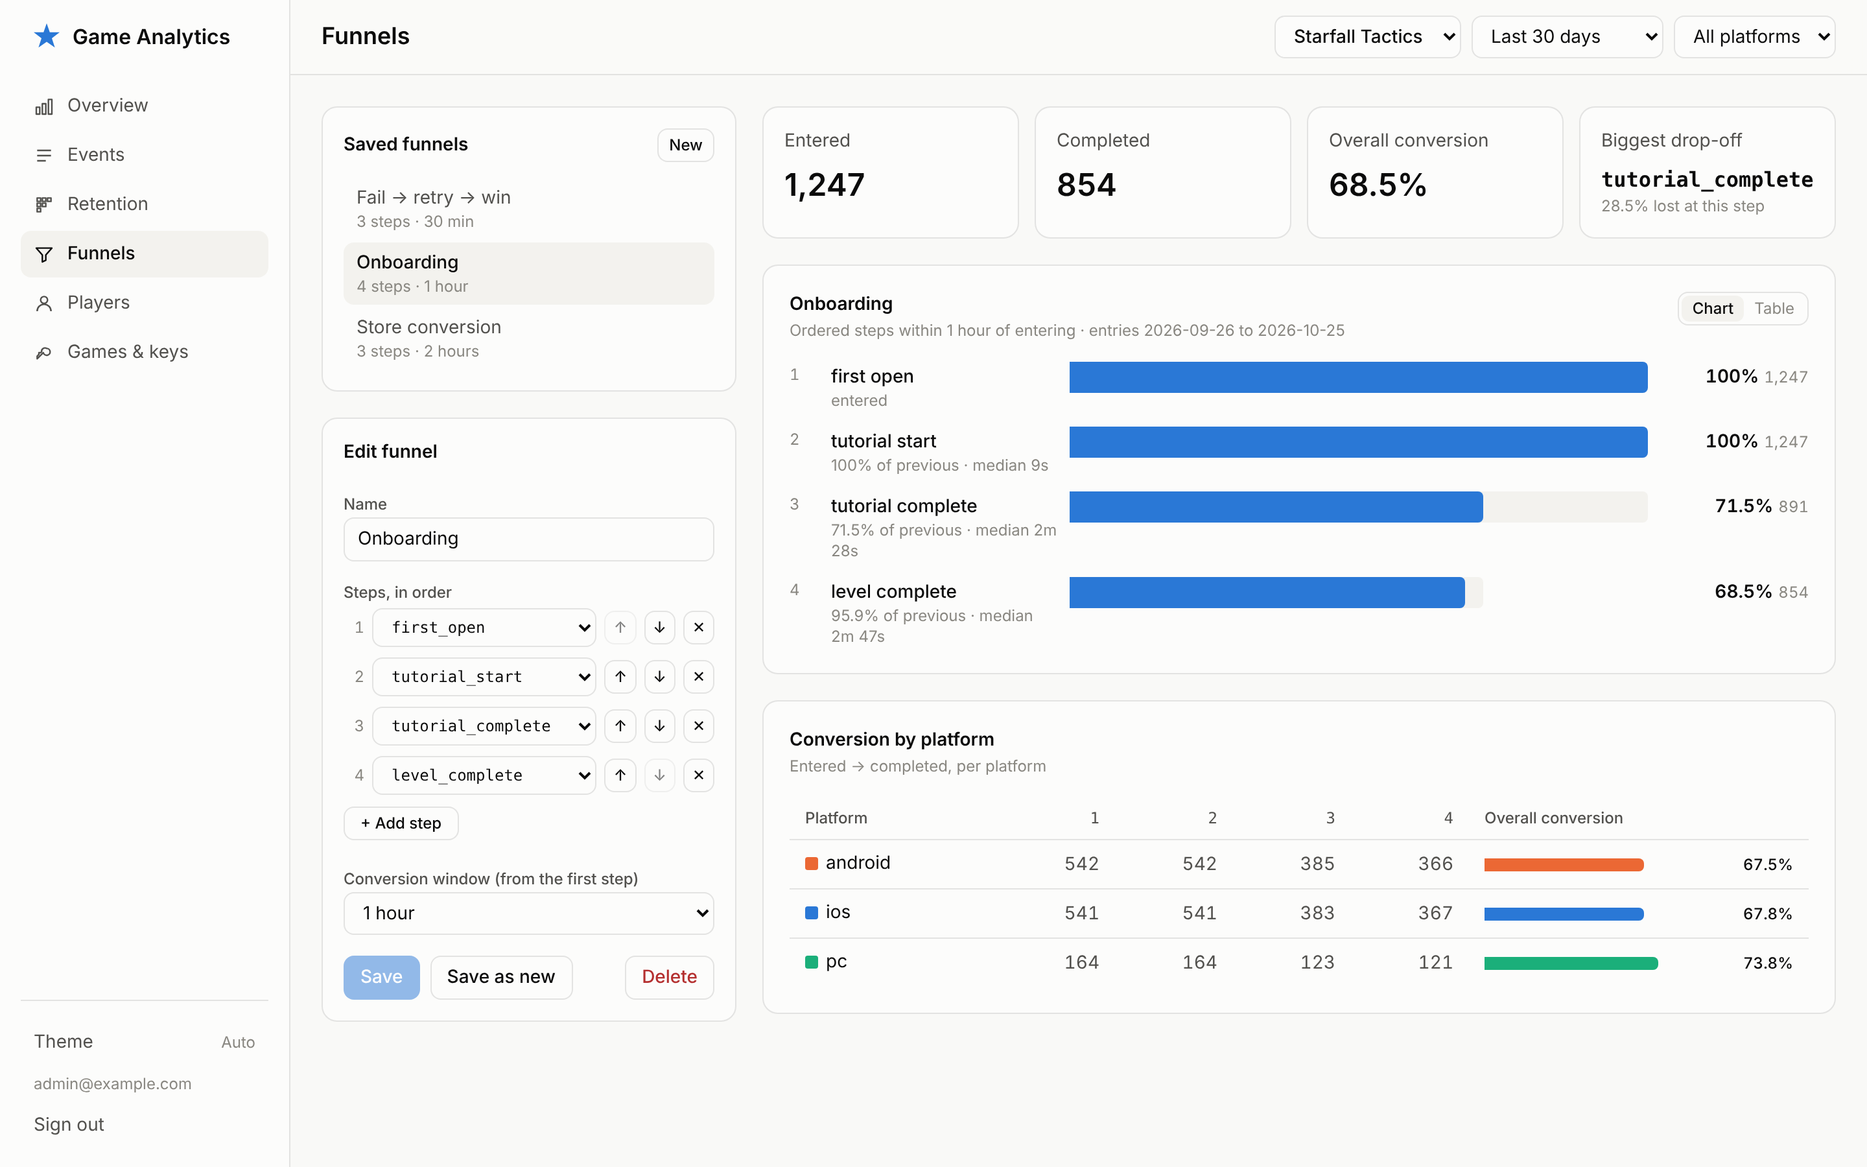
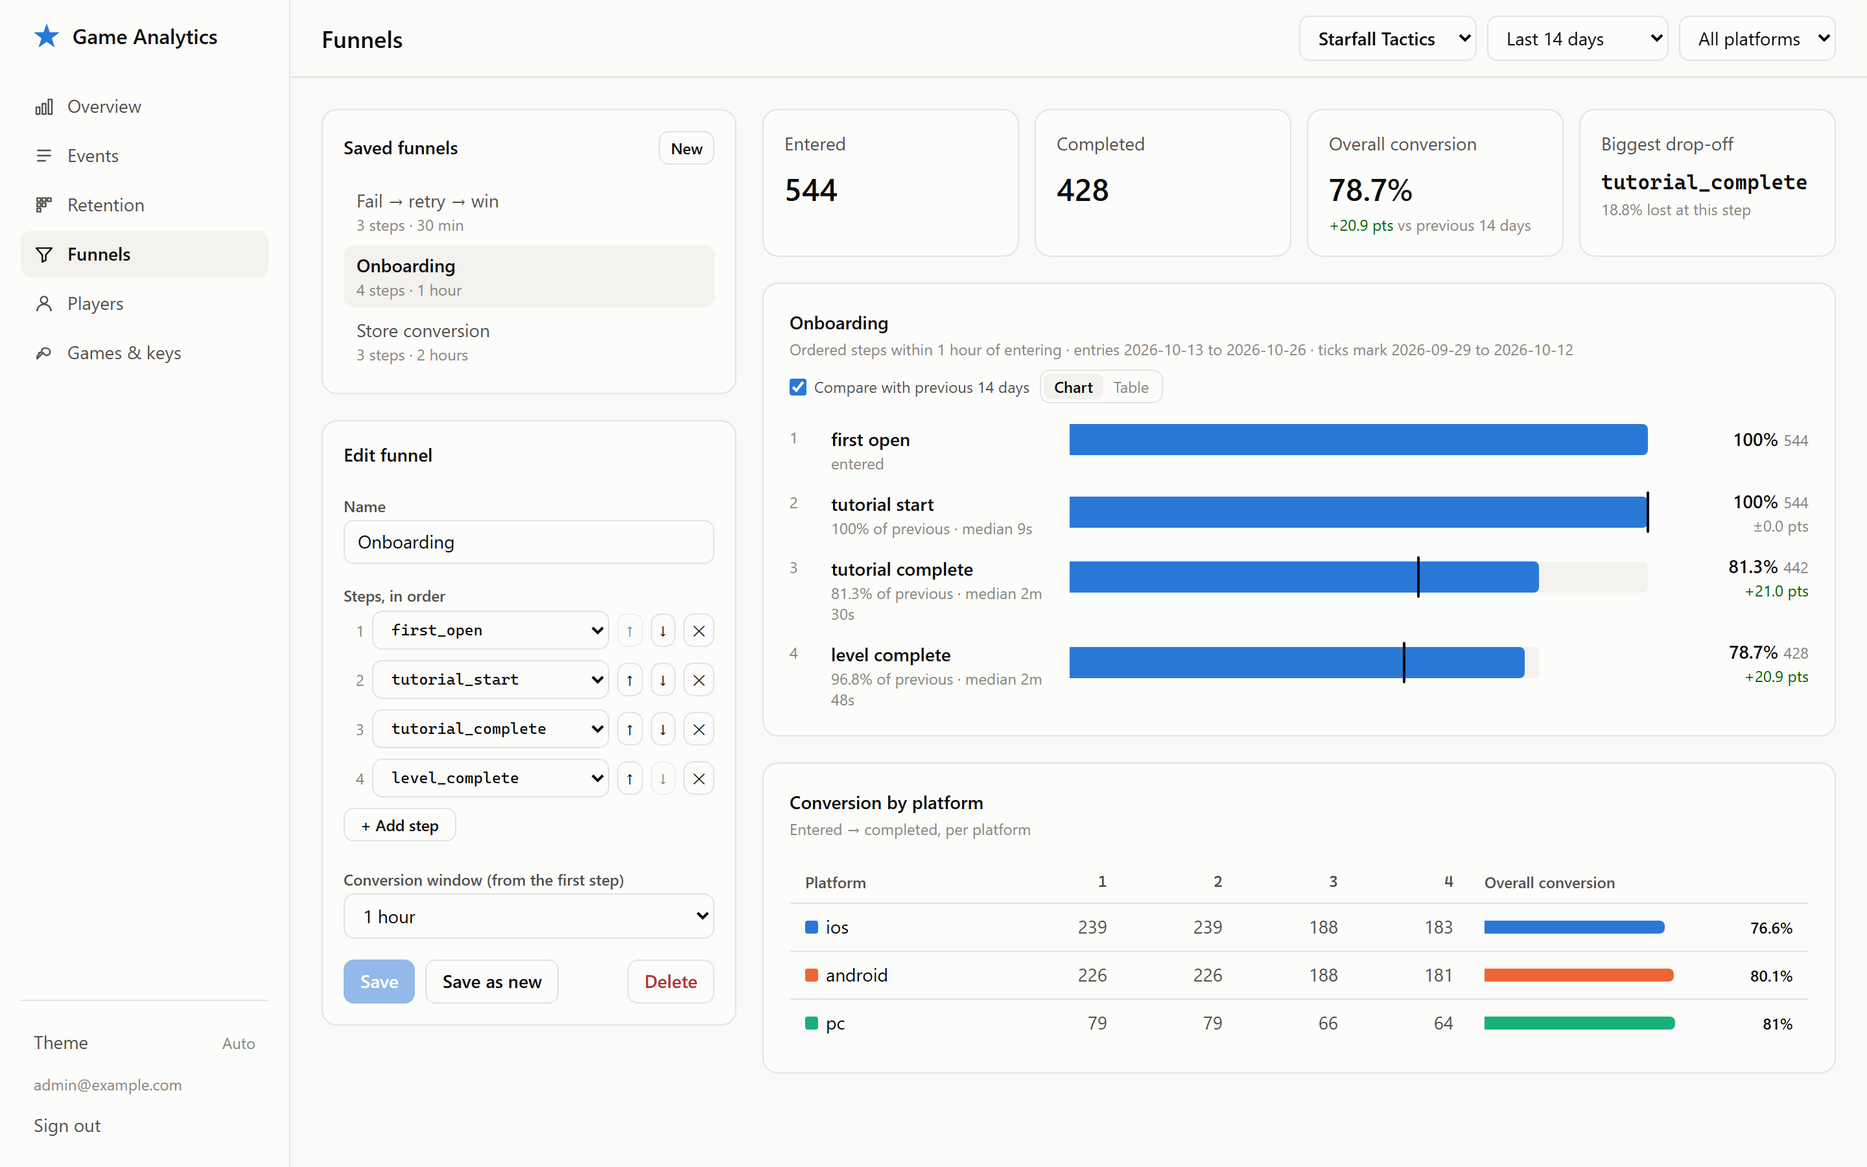
Compare a funnel with the previous period
With compare=1, the funnel report and preview endpoints add the same
funnel over the equally long period just before the range. The Funnels
page gets a "Compare with previous N days" toggle: each step shows a tick
where it stood before and its change in percentage points, the overall
conversion tile shows the change, and the table view adds the before and
change columns.

On the seeded data, the Onboarding funnel over the last 14 days shows the
1.4.0 tutorial fix: tutorial completion 60.2% -> 81.3% (+21.0 pts). The
README's funnel screenshot now shows this view.

Closes #7.

diff --git a/resources/js/pages/FunnelsPage.vue b/resources/js/pages/FunnelsPage.vue
@@ -4,7 +4,7 @@ import ChartCard from '../components/ChartCard.vue';
 import FunnelChart from '../components/charts/FunnelChart.vue';
 import { platformColor } from '../components/charts/scale';
 import { api } from '../lib/api';
-import { duration, eventLabel, minutesLabel, number, percent } from '../lib/format';
+import { duration, eventLabel, minutesLabel, number, percent, signedPoints } from '../lib/format';
 import { DEMO, game, range, state } from '../lib/store';
 import { useReport } from '../lib/useReport';
 
@@ -16,6 +16,8 @@ const catalog = ref([]);
 const draft = reactive({ id: null, name: '', steps: [], window_minutes: 60 });
 const saving = ref(false);
 const formError = ref('');
+/** Also run the funnel over the equally long period before the range. */
+const compare = ref(false);
 
 const saved = computed(() => funnels.value.find((f) => f.id === draft.id) ?? null);
 const dirty = computed(
@@ -45,7 +47,7 @@ api.get(`/games/${game.value.id}/events/catalog`).then((r) => (catalog.value = r
 const { data, loading, error } = useReport(
     () => {
         if (!definitionValid.value) return null;
-        const filters = { ...range.value, platform: state.platform };
+        const filters = { ...range.value, platform: state.platform, compare: compare.value ? 1 : null };
         return !dirty.value
             ? { url: `/games/${game.value.id}/funnels/${draft.id}/report`, params: filters }
             : { url: `/games/${game.value.id}/funnels/preview`, params: { ...filters, steps: draft.steps, window_minutes: draft.window_minutes } };
@@ -84,8 +86,14 @@ const summary = computed(() => {
     const steps = data.value?.steps ?? [];
     if (!steps.length) return null;
     const worst = steps.slice(1).reduce((w, s) => (w === null || (s.step_conversion ?? 1) < (w.step_conversion ?? 1) ? s : w), null);
-    return { entered: steps[0].players, completed: steps[steps.length - 1].players, conversion: steps[steps.length - 1].conversion, worst };
+    const before = data.value.comparison?.steps.at(-1)?.conversion;
+    const conversion = steps[steps.length - 1].conversion;
+    const change = before === undefined || before === null || conversion === null ? null : conversion - before;
+    return { entered: steps[0].players, completed: steps[steps.length - 1].players, conversion, change, worst };
 });
+
+/** The comparison rows, only once the response that carries them has arrived. */
+const previous = computed(() => (compare.value ? (data.value?.comparison?.steps ?? null) : null));
 
 watch(() => draft.steps.length, (n) => n > MAX_STEPS && draft.steps.splice(MAX_STEPS));
 </script>
@@ -160,7 +168,13 @@ watch(() => draft.steps.length, (n) => n > MAX_STEPS && draft.steps.splice(MAX_S
             <div v-if="summary" class="grid grid-cols-2 gap-3 transition-opacity xl:grid-cols-4" :class="loading ? 'opacity-50' : ''">
                 <div class="card p-4"><div class="text-sm text-ink-2">Entered</div><div class="mt-2 text-2xl font-semibold text-ink">{{ number(summary.entered) }}</div></div>
                 <div class="card p-4"><div class="text-sm text-ink-2">Completed</div><div class="mt-2 text-2xl font-semibold text-ink">{{ number(summary.completed) }}</div></div>
-                <div class="card p-4"><div class="text-sm text-ink-2">Overall conversion</div><div class="mt-2 text-2xl font-semibold text-ink">{{ percent(summary.conversion) }}</div></div>
+                <div class="card p-4">
+                    <div class="text-sm text-ink-2">Overall conversion</div>
+                    <div class="mt-2 text-2xl font-semibold text-ink">{{ percent(summary.conversion) }}</div>
+                    <div v-if="previous && summary.change !== null" class="mt-1 text-xs" :class="Math.abs(summary.change) < 0.0005 ? 'text-muted' : summary.change > 0 ? 'text-good' : 'text-bad'">
+                        {{ signedPoints(summary.change) }} <span class="text-muted">vs previous {{ data.range.days }} days</span>
+                    </div>
+                </div>
                 <div class="card p-4">
                     <div class="text-sm text-ink-2">Biggest drop-off</div>
                     <div class="mt-2 truncate font-mono text-base font-semibold text-ink">{{ summary.worst?.name ?? '–' }}</div>
@@ -171,14 +185,23 @@ watch(() => draft.steps.length, (n) => n > MAX_STEPS && draft.steps.splice(MAX_S
             <ChartCard
                 v-if="data"
                 :title="draft.name || 'Untitled funnel'"
-                :subtitle="`Ordered steps within ${minutesLabel(data.window_minutes)} of entering · entries ${data.range.from} to ${data.range.to}${state.platform ? ` · ${state.platform}` : ''}`"
+                :subtitle="`Ordered steps within ${minutesLabel(data.window_minutes)} of entering · entries ${data.range.from} to ${data.range.to}${state.platform ? ` · ${state.platform}` : ''}${previous ? ` · ticks mark ${data.comparison.range.from} to ${data.comparison.range.to}` : ''}`"
                 :loading="loading"
             >
-                <FunnelChart :steps="data.steps" />
+                <template #actions>
+                    <label class="flex cursor-pointer items-center gap-1.5 text-xs text-ink-2">
+                        <input v-model="compare" type="checkbox" class="accent-[var(--series-1)]" />
+                        Compare with previous {{ data.range.days }} days
+                    </label>
+                </template>
+                <FunnelChart :steps="data.steps" :previous="previous" />
                 <template #table>
                     <table class="data-table">
                         <thead>
-                            <tr><th>#</th><th>Step</th><th class="text-right">Players</th><th class="text-right">Overall</th><th class="text-right">From previous</th><th class="text-right">Median time</th></tr>
+                            <tr>
+                                <th>#</th><th>Step</th><th class="text-right">Players</th><th class="text-right">Overall</th><th class="text-right">From previous</th><th class="text-right">Median time</th>
+                                <template v-if="previous"><th class="text-right">Overall before</th><th class="text-right">Change</th></template>
+                            </tr>
                         </thead>
                         <tbody>
                             <tr v-for="(s, i) in data.steps" :key="i">
@@ -188,6 +211,10 @@ watch(() => draft.steps.length, (n) => n > MAX_STEPS && draft.steps.splice(MAX_S
                                 <td class="text-right">{{ percent(s.conversion) }}</td>
                                 <td class="text-right">{{ i ? percent(s.step_conversion) : '–' }}</td>
                                 <td class="text-right">{{ i ? duration(s.median_seconds) : '–' }}</td>
+                                <template v-if="previous">
+                                    <td class="text-right">{{ percent(previous[i]?.conversion) }}</td>
+                                    <td class="text-right">{{ i && previous[i]?.conversion != null && s.conversion != null ? signedPoints(s.conversion - previous[i].conversion) : '–' }}</td>
+                                </template>
                             </tr>
                         </tbody>
                     </table>

diff --git a/resources/js/components/charts/FunnelChart.vue b/resources/js/components/charts/FunnelChart.vue
@@ -1,17 +1,32 @@
 <script setup>
 import { computed, ref } from 'vue';
-import { duration, eventLabel, number, percent } from '../../lib/format';
+import { duration, eventLabel, number, percent, signedPoints } from '../../lib/format';
 
 /**
  * One row per step: the bar is players who reached it, the faint track behind it is
- * the previous step's level, so the gap between them is the drop-off.
+ * the previous step's level, so the gap between them is the drop-off. With `previous`
+ * (the same funnel over the period before), a tick marks where each step stood then.
  */
 const props = defineProps({
     steps: { type: Array, required: true },
+    previous: { type: Array, default: null },
 });
 
 const hover = ref(null);
 const entered = computed(() => Math.max(1, props.steps[0]?.players ?? 0));
+
+/** Change in overall conversion vs the previous period, per step (null when not comparable). */
+const changes = computed(() =>
+    props.steps.map((step, i) => {
+        const before = props.previous?.[i]?.conversion;
+        return before === null || before === undefined || step.conversion === null ? null : step.conversion - before;
+    }),
+);
+
+function changeClass(change) {
+    if (change === null || Math.abs(change) < 0.0005) return 'text-muted';
+    return change > 0 ? 'text-good' : 'text-bad';
+}
 </script>
 
 <template>
@@ -46,14 +61,24 @@ const entered = computed(() => Math.max(1, props.steps[0]?.players ?? 0));
                             class="absolute inset-y-0 left-0 rounded-r-[4px] transition-opacity"
                             :style="{ width: `${Math.max(0.4, (step.players / entered) * 100)}%`, background: 'var(--series-1)', opacity: hover === null || hover === i ? 1 : 0.6 }"
                         />
+                        <div
+                            v-if="i > 0 && previous?.[i]?.conversion != null"
+                            class="absolute -inset-y-1 w-0.5 -translate-x-1/2 rounded-full bg-ink"
+                            :style="{ left: `${previous[i].conversion * 100}%` }"
+                            aria-hidden="true"
+                        />
                     </div>
                     <div class="w-28 shrink-0 text-right text-sm tabular-nums">
                         <span class="font-semibold text-ink">{{ percent(step.conversion) }}</span>
                         <span class="ml-1 text-xs text-muted">{{ number(step.players) }}</span>
+                        <div v-if="previous && i > 0" class="text-xs" :class="changeClass(changes[i])">
+                            {{ signedPoints(changes[i]) ?? '–' }}<span class="sr-only"> vs the previous period ({{ percent(previous[i]?.conversion) }})</span>
+                        </div>
                     </div>
                 </div>
                 <div v-if="i > 0 && hover === i" class="mt-1 text-xs text-ink-2">
-                    {{ number(step.dropped, { exact: true }) }} players dropped before this step
+                    {{ number(step.dropped, { exact: true }) }} players dropped before this step<template v-if="previous?.[i]">
+                        · previous period {{ percent(previous[i].conversion) }} ({{ number(previous[i].players, { exact: true }) }} players)</template>
                 </div>
             </div>
         </li>

diff --git a/resources/js/lib/format.js b/resources/js/lib/format.js
@@ -27,6 +27,13 @@ export function signedPercent(value) {
     return `${sign}${Math.abs(value * 100).toFixed(1)}%`;
 }
 
+/** Difference between two rates in percentage points: 0.182 -> "+18.2 pts". */
+export function signedPoints(value) {
+    if (isMissing(value)) return null;
+    const sign = value > 0 ? '+' : value < 0 ? '−' : '±';
+    return `${sign}${Math.abs(value * 100).toFixed(1)} pts`;
+}
+
 export function duration(seconds) {
     if (isMissing(seconds)) return '–';
     if (seconds < 60) return `${Math.round(seconds)}s`;

diff --git a/tests/Feature/DashboardApiTest.php b/tests/Feature/DashboardApiTest.php
@@ -183,6 +183,37 @@ class DashboardApiTest extends TestCase
             ->assertJsonPath('steps.1.players', 0);
     }
 
+    public function test_a_funnel_can_be_compared_with_the_previous_period(): void
+    {
+        $this->ingest($this->game, [
+            // Previous period (Jun 13): two entries, one completes.
+            $this->event('first_open', 'alice', '2026-06-13 10:00'),
+            $this->event('first_open', 'bob', '2026-06-13 11:00'),
+            $this->event('tutorial_complete', 'bob', '2026-06-13 11:05'),
+            // Requested range (Jun 14): one entry, which completes.
+            $this->event('first_open', 'carol', '2026-06-14 10:00'),
+            $this->event('tutorial_complete', 'carol', '2026-06-14 10:02'),
+        ]);
+        $funnel = $this->game->funnels()->create(['name' => 'Onboarding', 'steps' => ['first_open', 'tutorial_complete'], 'window_minutes' => 30]);
+        $this->actingAs(User::factory()->create());
+        $range = ['from' => '2026-06-14', 'to' => '2026-06-14'];
+
+        foreach ([
+            "/api/admin/games/{$this->game->id}/funnels/{$funnel->id}/report?",
+            "/api/admin/games/{$this->game->id}/funnels/preview?".http_build_query(['steps' => $funnel->steps, 'window_minutes' => 30]).'&',
+        ] as $uri) {
+            $this->getJson($uri.http_build_query([...$range, 'compare' => 1]))
+                ->assertOk()
+                ->assertJsonPath('steps.1.conversion', 1)
+                ->assertJsonPath('comparison.range.from', '2026-06-13')
+                ->assertJsonPath('comparison.range.to', '2026-06-13')
+                ->assertJsonPath('comparison.steps.0.players', 2)
+                ->assertJsonPath('comparison.steps.1.conversion', 0.5);
+
+            $this->getJson($uri.http_build_query($range))->assertOk()->assertJsonMissingPath('comparison');
+        }
+    }
+
     public function test_funnel_definitions_are_validated(): void
     {
         $this->actingAs(User::factory()->create())

diff --git a/app/Http/Controllers/Admin/FunnelController.php b/app/Http/Controllers/Admin/FunnelController.php
@@ -46,7 +46,7 @@ class FunnelController extends Controller
     {
         return response()->json([
             'funnel' => new FunnelResource($funnel),
-            ...$report->build($game, $funnel->steps, $funnel->window_minutes, $request->range(), $request->platform()),
+            ...$this->build($request, $report, $game, $funnel->steps, $funnel->window_minutes),
         ]);
     }
 
@@ -55,12 +55,27 @@ class FunnelController extends Controller
      */
     public function preview(FunnelPreviewRequest $request, Game $game, FunnelReport $report): JsonResponse
     {
-        return response()->json($report->build(
-            $game,
-            $request->validated('steps'),
-            (int) $request->validated('window_minutes'),
-            $request->range(),
-            $request->platform(),
-        ));
+        return response()->json(
+            $this->build($request, $report, $game, $request->validated('steps'), (int) $request->validated('window_minutes')),
+        );
+    }
+
+    /**
+     * Run the funnel over the requested range and, with ?compare=1, over the equally long period
+     * just before it, so a change such as a client release can be read off step by step.
+     *
+     * @param  list<string>  $steps
+     * @return array<string, mixed>
+     */
+    private function build(ReportRequest $request, FunnelReport $report, Game $game, array $steps, int $windowMinutes): array
+    {
+        $result = $report->build($game, $steps, $windowMinutes, $request->range(), $request->platform());
+
+        if ($request->wantsComparison()) {
+            $previous = $report->build($game, $steps, $windowMinutes, $request->range()->previous(), $request->platform());
+            $result['comparison'] = ['range' => $previous['range'], 'steps' => $previous['steps']];
+        }
+
+        return $result;
     }
 }

diff --git a/app/Http/Requests/ReportRequest.php b/app/Http/Requests/ReportRequest.php
@@ -25,6 +25,7 @@ class ReportRequest extends FormRequest
             'from' => ['nullable', 'date_format:Y-m-d', 'before_or_equal:today'],
             'to' => ['nullable', 'date_format:Y-m-d', 'after_or_equal:from'],
             'platform' => ['nullable', 'string', 'in:'.implode(',', config('analytics.platforms'))],
+            'compare' => ['nullable', 'boolean'],
         ];
     }
 
@@ -54,5 +55,13 @@ class ReportRequest extends FormRequest
     public function platform(): ?string
     {
         return $this->input('platform') ?: null;
+    }
+
+    /**
+     * Whether to add the equally long period just before the range, for comparison.
+     */
+    public function wantsComparison(): bool
+    {
+        return $this->boolean('compare');
     }
 }

diff --git a/README.md b/README.md
@@ -16,7 +16,7 @@ MySQL and Postgres also work) · hand-built SVG charts (no chart library)
 
 | Cohort retention | Funnel builder |
 |---|---|
-| ![Retention heatmap with the average retention curve](docs/screenshots/retention.png) | ![Onboarding funnel with per-platform conversion](docs/screenshots/funnels.png) |
+| ![Retention heatmap with the average retention curve](docs/screenshots/retention.png) | ![Onboarding funnel compared with the previous 14 days: tutorial completion up 21 points after the 1.4.0 fix](docs/screenshots/funnels.png) |
 | **Event trends** | **Player profile** |
 | ![Daily volume for the top events and the event table](docs/screenshots/events.png) | ![A player's activity, sessions and event timeline](docs/screenshots/player.png) |
 
@@ -147,7 +147,7 @@ player moves to the earlier cohort and their existing activity days are re-index
 | `OverviewReport` | KPIs (active players, average DAU, new players, stickiness, sessions, session length, revenue, payers, ARPDAU, ARPPU), each compared with the previous period of equal length. Daily series are gap-filled. |
 | `EventsReport` | Volume, unique players, reach and per-player rate for each event name, plus daily trends for up to 4 names. |
 | `RetentionReport` | Classic N-day cohort matrix (7, 14 or 30 days). Days that haven't happened yet are `null`, not `0`, and are left out of the size-weighted averages. Can be filtered by platform. |
-| `FunnelReport` | Ordered steps within a conversion window that starts at entry. Entry has to fall inside the date range, but later steps may finish after it. When a player enters several times, the attempt that got furthest counts. Also returns the median time between steps and a per-platform breakdown. Events are streamed with a cursor and evaluated per player in PHP, so the same code runs on any database. |
+| `FunnelReport` | Ordered steps within a conversion window that starts at entry. Entry has to fall inside the date range, but later steps may finish after it. When a player enters several times, the attempt that got furthest counts. Also returns the median time between steps and a per-platform breakdown, and with `compare=1` the same funnel over the equally long period before the range. Events are streamed with a cursor and evaluated per player in PHP, so the same code runs on any database. |
 
 ### Dashboard
 
@@ -205,7 +205,8 @@ to find:
 - A three-day paid user-acquisition burst (around 40% of the way through the range) brings lower-intent installs.
   It shows as a spike in new players and weaker cohorts.
 - Client 1.4.0 ships 14 days before today with a tutorial fix. Tutorial completion rises from about 60% to 80%.
-  Compare the **Onboarding** funnel over the last 14 days with an earlier range.
+  Open the **Onboarding** funnel over the last 14 days and tick *Compare with previous 14 days*: tutorial completion
+  shows about +20 points.
 
 ## Design decisions and trade-offs
 
@@ -238,9 +239,8 @@ Tracked as [GitHub issues](https://github.com/GodfreysDragon/game-analytics-dash
 2. [Property breakdowns, e.g. `level_fail` by `properties.level`](https://github.com/GodfreysDragon/game-analytics-dashboard/issues/4)
 3. [Saved segments applied to every report](https://github.com/GodfreysDragon/game-analytics-dashboard/issues/5)
 4. [CSV export from table views, and scheduled email digests](https://github.com/GodfreysDragon/game-analytics-dashboard/issues/6)
-5. [Funnel comparison: two date ranges side by side](https://github.com/GodfreysDragon/game-analytics-dashboard/issues/7)
-6. [Revenue reports: LTV curves by cohort and purchases by item](https://github.com/GodfreysDragon/game-analytics-dashboard/issues/8)
-7. [Admin accounts: `make:admin`, password reset, per-game access](https://github.com/GodfreysDragon/game-analytics-dashboard/issues/9)
+5. [Revenue reports: LTV curves by cohort and purchases by item](https://github.com/GodfreysDragon/game-analytics-dashboard/issues/8)
+6. [Admin accounts: `make:admin`, password reset, per-game access](https://github.com/GodfreysDragon/game-analytics-dashboard/issues/9)
 
 ## License
 
